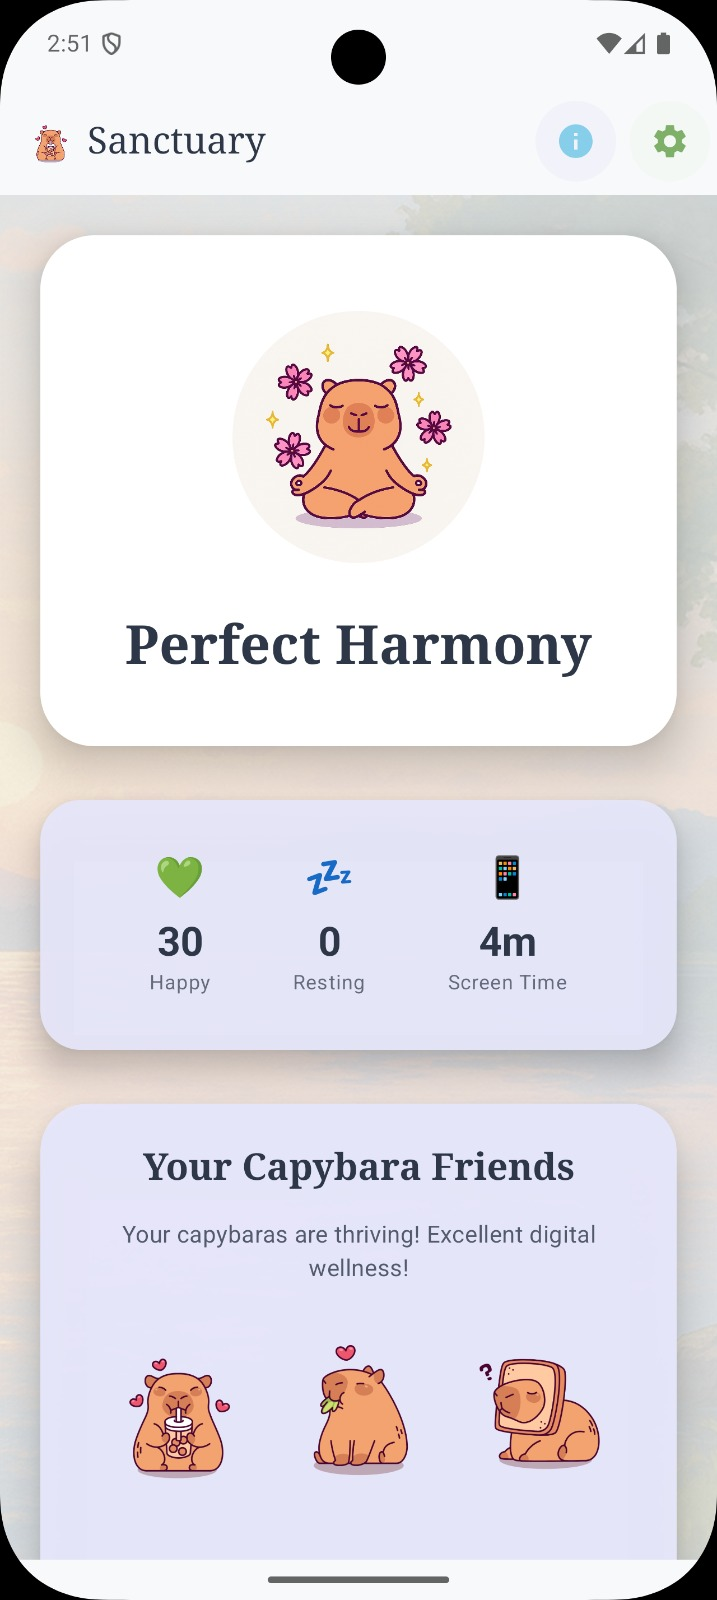
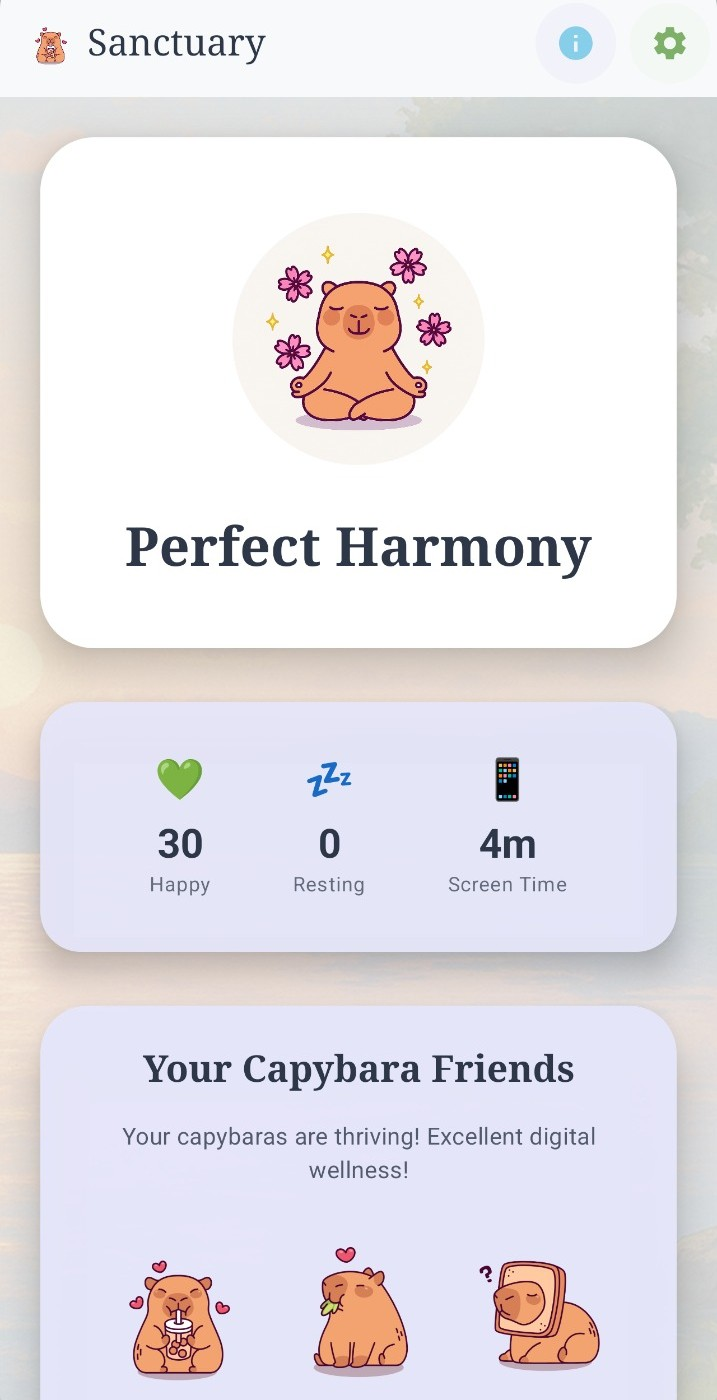
nicesh

diff --git a/web/capybara-sanctuary/src/app/page.tsx b/web/capybara-sanctuary/src/app/page.tsx
@@ -8,17 +8,17 @@ export default function Home() {
       <section className="relative overflow-hidden">
         {/* Background Image */}
         <div className="absolute inset-0 opacity-20">
-          <Image
+        <Image
             src="/images/sunset_wide_1536_1024_ghibly.png"
             alt="Peaceful sunset background"
             fill
             className="object-cover"
-            priority
-          />
+          priority
+        />
         </div>
         
         {/* Navigation */}
-        <nav className="relative z-10 flex items-center justify-between p-6 md:p-8">
+        <nav className="relative z-10 flex items-center justify-between p-4 md:p-6">
           <div className="flex items-center space-x-3">
             <Image
               src="/images/capybara_cartoon_style_sitting_happy_drinking_boba_tea_with_hearts_facing_forward_solo.png"
@@ -47,8 +47,8 @@ export default function Home() {
         </nav>
 
         {/* Hero Content */}
-        <div className="relative z-10 max-w-6xl mx-auto px-6 md:px-8 py-20 md:py-32">
-          <div className="grid md:grid-cols-2 gap-12 items-center">
+        <div className="relative z-10 max-w-6xl mx-auto px-6 md:px-8 py-4 md:py-8">
+          <div className="grid md:grid-cols-2 gap-8 md:gap-12 items-center">
             <div className="space-y-8">
               <div className="space-y-4">
                 <h1 className="text-4xl md:text-6xl font-serif text-amber-900 leading-tight">
@@ -92,6 +92,130 @@ export default function Home() {
                 <div className="w-2 h-2 bg-orange-300 rounded-full opacity-40"></div>
               </div>
             </div>
+          </div>
+        </div>
+      </section>
+
+      {/* Problems Section */}
+      <section className="py-20 md:py-32 bg-gradient-to-r from-rose-50 to-orange-50">
+        <div className="max-w-6xl mx-auto px-6 md:px-8">
+          <div className="text-center mb-16">
+            <h2 className="text-3xl md:text-4xl font-serif text-amber-900 mb-4">
+              Does this sound familiar?
+            </h2>
+            <p className="text-lg text-amber-700 max-w-2xl mx-auto">
+              You&apos;re not alone in struggling with these modern digital challenges
+            </p>
+          </div>
+          
+          <div className="grid md:grid-cols-2 lg:grid-cols-3 gap-8">
+            <div className="bg-white/70 backdrop-blur-sm rounded-3xl p-8 text-center space-y-4 shadow-lg">
+              <div className="w-16 h-16 mx-auto mb-4">
+                <Image
+                  src="/images/capybara_sitting_upright_alert_but_calm_looking_slightly_concerned_but_hopeful_white_bg.png"
+                  alt="Concerned capybara"
+                  width={64}
+                  height={64}
+                  className="w-full h-full object-contain capybara-image"
+                />
+              </div>
+              <h3 className="text-xl font-serif text-amber-900">Endless Scrolling</h3>
+              <p className="text-amber-700">
+                &quot;I&apos;ll just check for 5 minutes...&quot; turns into hours lost in the infinite feed, 
+                leaving you feeling drained and disconnected.
+              </p>
+            </div>
+            
+            <div className="bg-white/70 backdrop-blur-sm rounded-3xl p-8 text-center space-y-4 shadow-lg">
+              <div className="w-16 h-16 mx-auto mb-4">
+                <Image
+                  src="/images/capybara_cartoon_style_sitting_content_happy__eating_lettuce_with_heart_facing_left_solo.png"
+                  alt="Stressed capybara"
+                  width={64}
+                  height={64}
+                  className="w-full h-full object-contain capybara-image"
+                />
+              </div>
+              <h3 className="text-xl font-serif text-amber-900">Doomscrolling Spiral</h3>
+              <p className="text-amber-700">
+                Negative news and content pulls you into a cycle of anxiety and overwhelm, 
+                making it hard to find peace in your day.
+              </p>
+            </div>
+            
+            <div className="bg-white/70 backdrop-blur-sm rounded-3xl p-8 text-center space-y-4 shadow-lg">
+              <div className="w-16 h-16 mx-auto mb-4">
+                <Image
+                  src="/images/capybara_cartoon_style_sleeping_curled_up_with_zzz_facing_right_solo.png"
+                  alt="Tired capybara"
+                  width={64}
+                  height={64}
+                  className="w-full h-full object-contain capybara-image"
+                />
+              </div>
+              <h3 className="text-xl font-serif text-amber-900">Phone Before Sleep</h3>
+              <p className="text-amber-700">
+                Late-night scrolling disrupts your sleep, leaving you tired and less present 
+                for the people and moments that matter most.
+              </p>
+            </div>
+            
+            <div className="bg-white/70 backdrop-blur-sm rounded-3xl p-8 text-center space-y-4 shadow-lg">
+              <div className="w-16 h-16 mx-auto mb-4">
+                <Image
+                  src="/images/capybara_cartoon_style_relaxed_in_hot_spring_duck_on_head_steam_bubbles_facing_left_solo.png"
+                  alt="Anxious capybara"
+                  width={64}
+                  height={64}
+                  className="w-full h-full object-contain capybara-image"
+                />
+              </div>
+              <h3 className="text-xl font-serif text-amber-900">FOMO & Comparison</h3>
+              <p className="text-amber-700">
+                Constant updates make you feel like you&apos;re missing out or not doing enough, 
+                stealing joy from your own unique journey.
+              </p>
+            </div>
+            
+            <div className="bg-white/70 backdrop-blur-sm rounded-3xl p-8 text-center space-y-4 shadow-lg">
+              <div className="w-16 h-16 mx-auto mb-4">
+                <Image
+                  src="/images/capybara_cartoon_style_sitting_happy_drinking_boba_tea_with_hearts_facing_forward_solo.png"
+                  alt="Distracted capybara"
+                  width={64}
+                  height={64}
+                  className="w-full h-full object-contain capybara-image"
+                />
+              </div>
+              <h3 className="text-xl font-serif text-amber-900">Constant Distraction</h3>
+              <p className="text-amber-700">
+                Every notification pulls you away from meaningful work, conversations, 
+                and experiences, fragmenting your attention.
+              </p>
+            </div>
+            
+            <div className="bg-white/70 backdrop-blur-sm rounded-3xl p-8 text-center space-y-4 shadow-lg">
+              <div className="w-16 h-16 mx-auto mb-4">
+                <Image
+                  src="/images/capybara_sitting_peacefully_meditation_pose_eyes_closed_small_smile_floating_cherry_blossoms_around_it_white_bg.png"
+                  alt="Overwhelmed capybara"
+                  width={64}
+                  height={64}
+                  className="w-full h-full object-contain capybara-image"
+                />
+              </div>
+              <h3 className="text-xl font-serif text-amber-900">Digital Overwhelm</h3>
+              <p className="text-amber-700">
+                Too many apps, notifications, and digital demands leave you feeling 
+                scattered and longing for simplicity and calm.
+              </p>
+            </div>
+          </div>
+          
+          <div className="text-center mt-12">
+            <p className="text-lg text-amber-800 font-medium">
+              What if there was a gentler way to find balance?
+            </p>
           </div>
         </div>
       </section>
@@ -232,7 +356,7 @@ export default function Home() {
       <section className="py-20 md:py-32 bg-gradient-to-r from-orange-100 to-amber-100">
         <div className="max-w-4xl mx-auto px-6 md:px-8 text-center">
           <div className="mb-8">
-            <Image
+          <Image
               src="/images/capybara_sitting_upright_alert_but_calm_looking_slightly_concerned_but_hopeful_white_bg.png"
               alt="Thoughtful capybara"
               width={120}
@@ -275,7 +399,7 @@ export default function Home() {
       <section id="download" className="py-20 md:py-32">
         <div className="max-w-4xl mx-auto px-6 md:px-8 text-center">
           <div className="mb-8">
-            <Image
+          <Image
               src="/images/capybara_cartoon_style_sitting_happy_drinking_boba_tea_with_hearts_facing_forward_solo.png"
               alt="Happy capybara with boba tea"
               width={100}
@@ -314,7 +438,7 @@ export default function Home() {
           <div className="grid md:grid-cols-3 gap-8">
             <div className="space-y-4">
               <div className="flex items-center space-x-3">
-                <Image
+          <Image
                   src="/images/capybara_cartoon_style_sitting_calm_facing_left_solo_square_1024_icon.png"
                   alt="Capybara sanctuary icon"
                   width={32}

diff --git a/web/capybara-sanctuary/src/app/globals.css b/web/capybara-sanctuary/src/app/globals.css
@@ -263,6 +263,12 @@ img {
     0 10px 25px rgba(0, 0, 0, 0.1),
     0 4px 10px rgba(217, 119, 6, 0.1); */
   transition: all 0.3s ease;
+  /* Crop out the black borders */
+  object-fit: cover;
+  object-position: center;
+  /* Make all screenshots equal height */
+  height: 600px;
+  width: 100%;
 }
 
 .screenshot-image:hover {
@@ -275,12 +281,27 @@ img {
 /* Remove any black artifacts from screenshots */
 .screenshot-container {
   background: linear-gradient(135deg, #fef7ed, #fed7aa);
-  padding: 4px;
-  border-radius: 28px;
+  padding: 8px;
+  border-radius: 32px;
+  overflow: hidden;
+  /* Ensure container maintains aspect ratio */
+  min-height: 616px; /* Minimum height to accommodate content */
+}
+
+.screenshot-container:hover {
+  transform: translateY(-4px);
+  box-shadow: 
+    0 20px 40px rgba(0, 0, 0, 0.15),
+    0 8px 20px rgba(217, 119, 6, 0.15);
 }
 
 .screenshot-container img {
   border-radius: 24px;
   border: none;
   outline: none;
+  /* Just a tiny scale to hide thin black borders without losing content */
+  transform: scale(1.02);
+  object-fit: cover;
+  width: 100%;
+  height: 600px; /* Fixed height for all screenshots */
 }

diff --git a/web/capybara-sanctuary/src/app/not-found.tsx b/web/capybara-sanctuary/src/app/not-found.tsx
@@ -21,7 +21,7 @@ export default function NotFound() {
         
         <p className="text-lg text-amber-800 mb-8 leading-relaxed">
           Even the most peaceful creatures sometimes wander off the path. 
-          Let's help this little one find their way back to the sanctuary.
+          Let&apos;s help this little one find their way back to the sanctuary.
         </p>
         
         <div className="flex flex-col sm:flex-row gap-4 justify-center">
